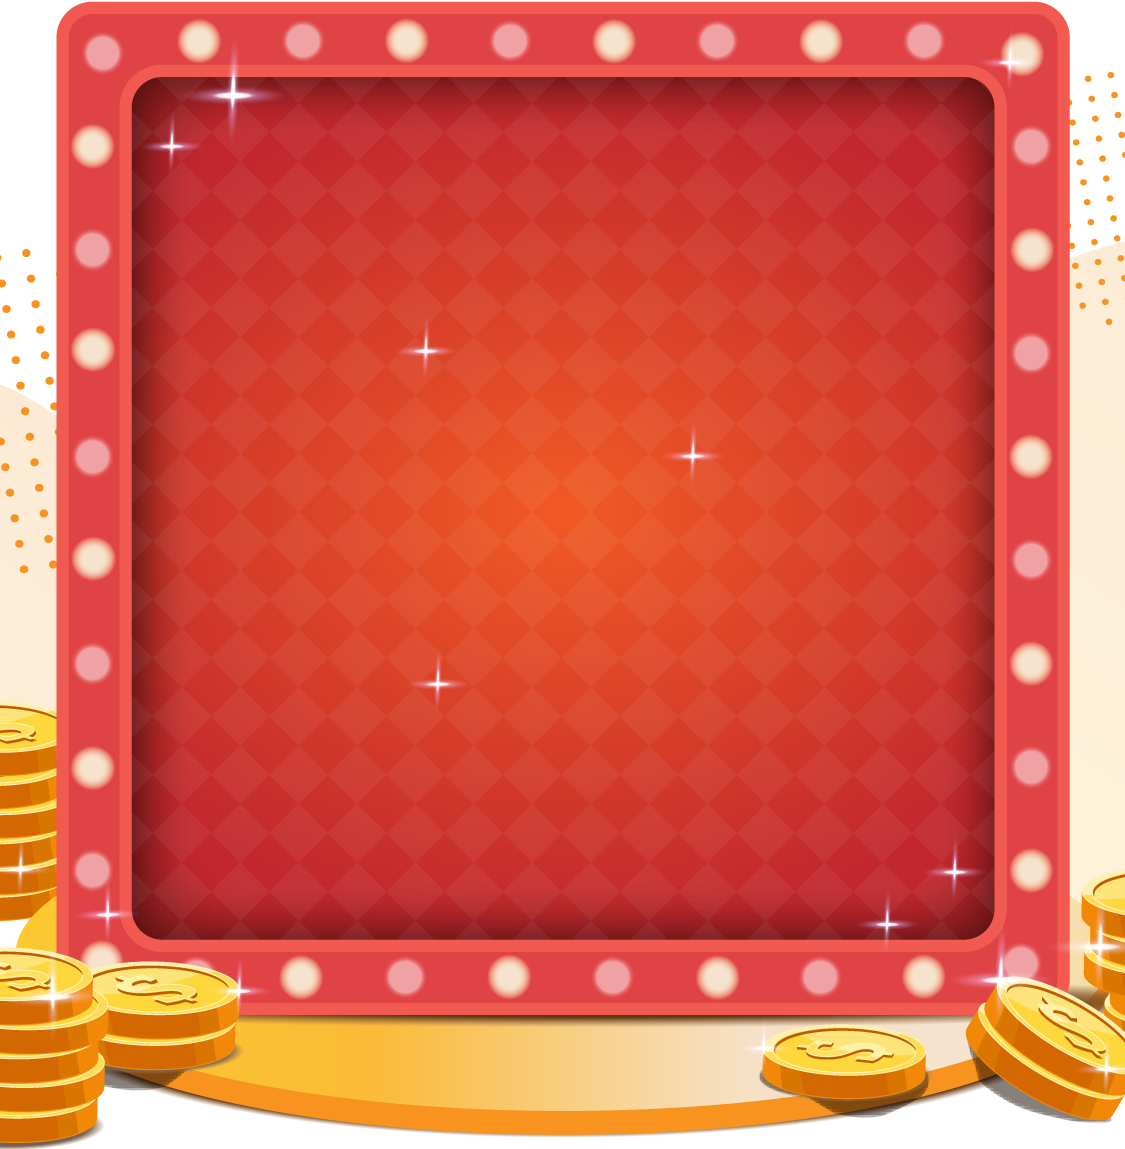
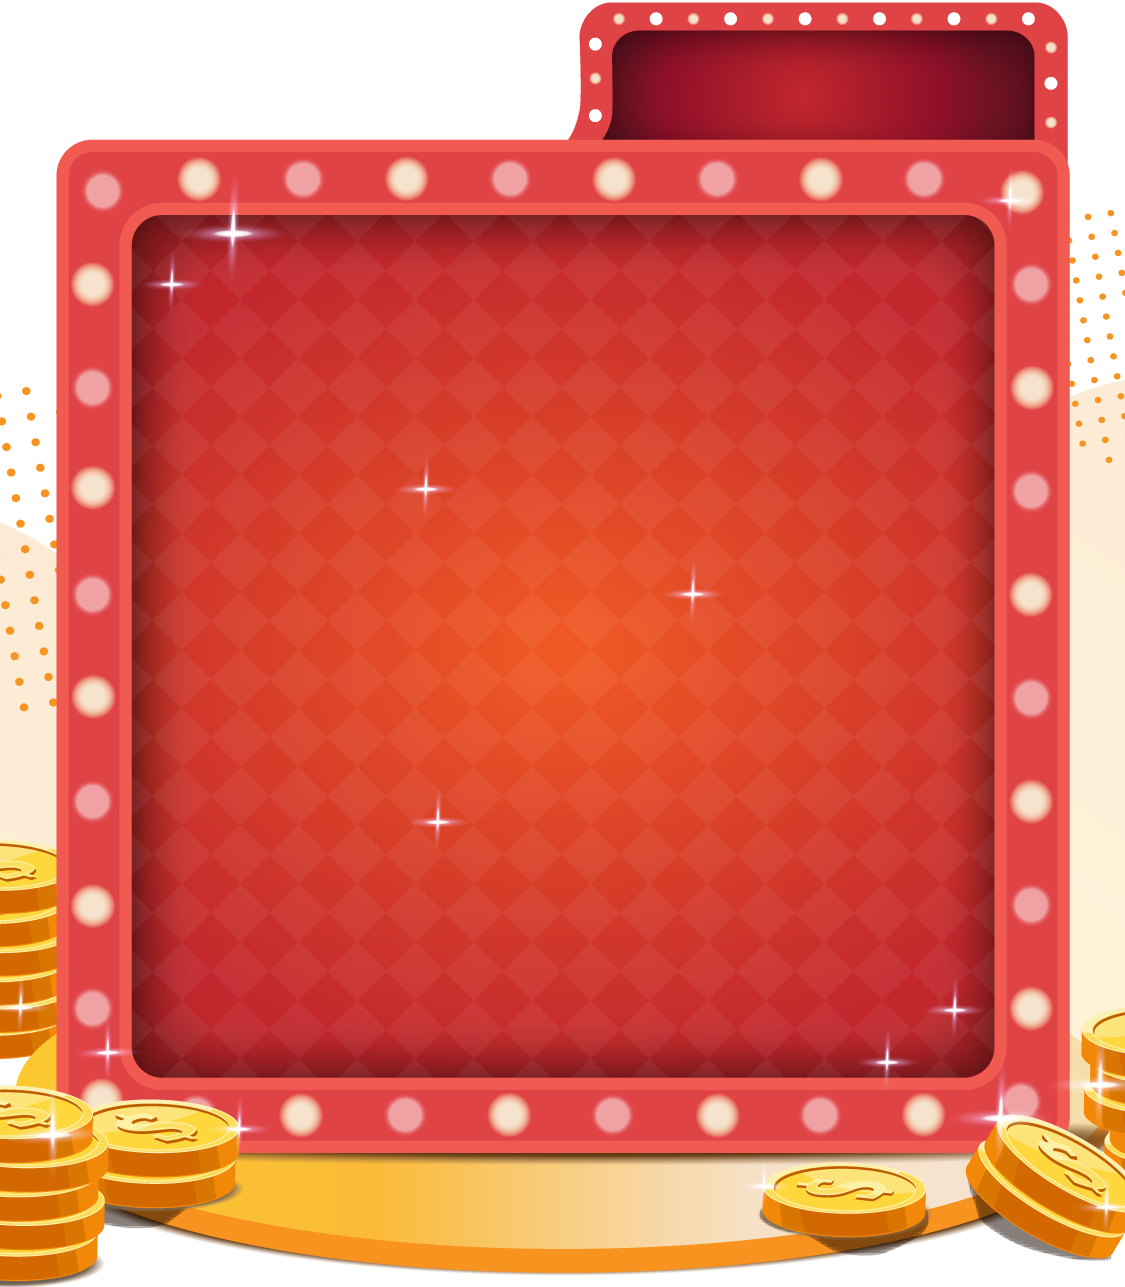
Change to new UI

diff --git a/src/css/components/_event__lottery.scss b/src/css/components/_event__lottery.scss
@@ -10,43 +10,78 @@
   margin: 0 -25px;
 }
 
-// Lottery Header | 會員帳號、抽獎次數
-.lottery__header {
-  display: flex;
-  align-items: center;
-  flex-flow: row nowrap;
-  justify-content: space-between;
-  padding: 20px 25px 8px;
-}
-
-.lottery__header > .lottery__info {
-  color: #000;
-  font-weight: medium;
-  font-size: 11px;
-}
-
-.lottery__info > .lottery__info_count {
-  color: #f00;
-}
-
 // 九宮格容器 | main: 展示背景圖片、game container: 放置九宮格容器(對應背景圖片的位置)
 .lottery__main {
   position: relative;
   display: flex;
   align-items: center;
   justify-content: center;
-  padding-top: calc(390 / 375 * 100%);
+  padding-top: calc(492 / 375 * 100%);
   width: 100%;
   background: #fff url('../img/lottery.png') no-repeat center;
   background-size: contain;
 
-  .lottery-game__container {
+  // 九宮格資訊 | 幾次抽獎機會
+  .lottery__info_count {
     position: absolute;
     top: 8%;
+    right: 8%;
+    display: flex;
+    overflow: hidden;
+    align-items: center;
+    flex-flow: row nowrap;
+    justify-content: center;
+    padding: 0 8px;
+    width: 37%;
+    height: 8%;
+    color: #fff;
+    text-align: right;
+    font-weight: 500;
+    font-size: 11px;
+
+    // 讓API放置剩餘抽獎次數的位置
+    #numberAwards {
+      overflow: hidden;
+      text-overflow: ellipsis;
+      white-space: nowrap;
+    }
+  }
+
+  // 九宮格資訊 | 會員資訊(會員帳號、請登入會員)、查詢我的獎品的按鈕
+  .lottery__info_account {
+    position: absolute;
+    top: 8%;
+    left: 8%;
+    display: flex;
+    align-items: start;
+    flex-flow: column nowrap;
+    justify-content: center;
+    width: 100%;
+    height: 6%;
+    text-align: left;
+    font-weight: 500;
+    font-size: 11px;
+
+    // 會員資訊 | 登入時：會員帳號、未登入時：顯示「請登入會員」
+    #memberId {
+      margin-bottom: 1%;
+      color: #000;
+    }
+
+    // 查詢「我的獎品」的按鈕
+    #myAwards {
+      color: #f38844;
+    }
+  }
+
+  // 放置九宮格的內容器
+  .lottery-game__container {
+    position: absolute;
+    top: 21%;
     left: 12%;
     overflow: hidden;
     width: 76%;
-    height: 73%;
+    height: 58%;
     border-radius: 3%;
   }
 }

diff --git a/src/js/index.js b/src/js/index.js
@@ -21,7 +21,7 @@ import * as API from './services/api'
 // 關於獎項的設定
 let prizes = prizesDate
 let targetPrizeId = '8'
-let numberAwards = -1 // 抽獎剩餘次數
+let numberAwards = 3 // 抽獎剩餘次數
 let eventInfo = {
   time: '2020年',
   target: '全体用户',
@@ -41,32 +41,39 @@ let isLogin = true // 使用者是否登入
 // Query String
 const query = {}
 
-const lottery = new Lottery(prizes)
+let lottery = new Lottery(prizes)
 
-// 畫面剛載入，渲染對應畫面
-window.addEventListener('load', async () => {
-  renderLoader()
+window.addEventListener('DOMContentLoaded', () => {
   // 取得Query String
   const urlParams = new URLSearchParams(window.location.search)
   for (const [key, value] of urlParams.entries()) {
     query[key] = value
   }
-  console.log(query)
+  console.log('query', query)
+})
+
+// 畫面剛載入，渲染對應畫面
+window.addEventListener('load', async () => {
+  renderLoader() // 顯示 Loading...
 
   const [playerInfo, lotteryInfo] = await Promise.all([
     API.getPlayerDrawInfo(query.actId, query.token),
     API.getSearchActivityPageInformation(query.actId),
   ])
 
+  console.log(lotteryInfo.data.actRuleDetailItemDTOList)
+  prizes = lotteryInfo.data.actRuleDetailItemDTOList
+
   await API.draw(query.actId, Date.now(), query.token)
 
-  clearLoader()
-  renderPage()
+  clearLoader() // 移除 Loading...
+  renderPage() // 顯示畫面
 
-  renderNumberAwards(numberAwards) // 更新畫面 - 九宮格
-  renderMemberId(memberId) // 更新畫面 - 會員帳號
-  renderPrizes(lottery.sortedIds) // 更新畫面 - 抽獎機會
-  renderEventInfo(eventInfo) // 更新畫面 - 活動資訊：活動日期、活動目標、活動平台
+  // 更新畫面
+  renderNumberAwards(numberAwards) // 九宮格
+  renderMemberId(memberId) // 會員帳號
+  renderPrizes(lottery.sortedIds) // 抽獎機會
+  renderEventInfo(eventInfo) // 活動資訊：活動日期、活動目標、活動平台
 
   // 如果載入時，沒有抽獎機會，顯示彈出視窗：「今日已無抽獎次數」
   if (numberAwards === 0) renderPopup(popupTypes.NO_NUMBER_OF_AWARDS)

diff --git a/src/index.html b/src/index.html
@@ -41,18 +41,16 @@
         </div>
         <!-- Lottery -->
         <div class="lottery">
-          <!-- Lottery Info | 會員帳號、抽獎機會 -->
-          <div class="lottery__header">
-            <span class="lottery__info"
-              >会员帐号：<span id="memberId"></span
-            ></span>
-            <span class="lottery__info"
-              >您有
-              <span id="numberAwards" class="lottery__info_count"></span>
-              次抽奖机会！</span
-            >
-          </div>
           <div class="lottery__main">
+            <!-- Lottery Info | 會員帳號 -->
+            <div class="lottery__info_account">
+              <span id="memberId">请登入会员</span>
+              <button id="myAwards">我的奖品</button>
+            </div>
+            <!-- Lottery Info | 抽獎機會 -->
+            <div class="lottery__info_count">
+              您有<span id="numberAwards">0</span>次抽奖机会！
+            </div>
             <div class="lottery-game__container">
               <div class="lottery-game__container_inner grid">
                 <img

diff --git a/src/js/views/lotteryView.js b/src/js/views/lotteryView.js
@@ -13,8 +13,8 @@ export const renderNumberAwards = num => {
 }
 
 // 渲染會員帳號
-export const renderMemberId = id => {
-  memberId.textContent = id
+export const renderMemberId = (id, isLogin = false) => {
+  memberId.textContent = isLogin ? `会员帐号：${id}` : '请登入会员'
 }
 
 // 渲染九宮格
